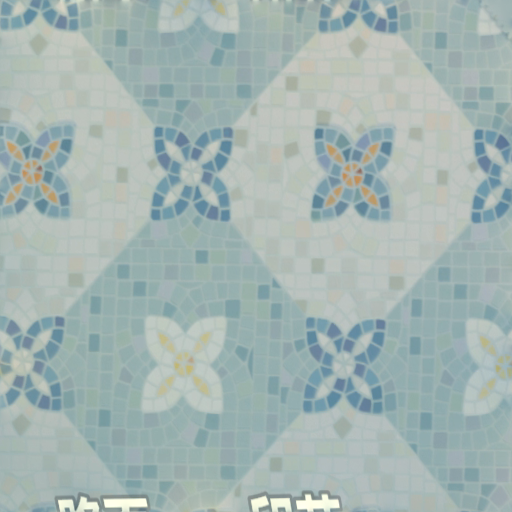
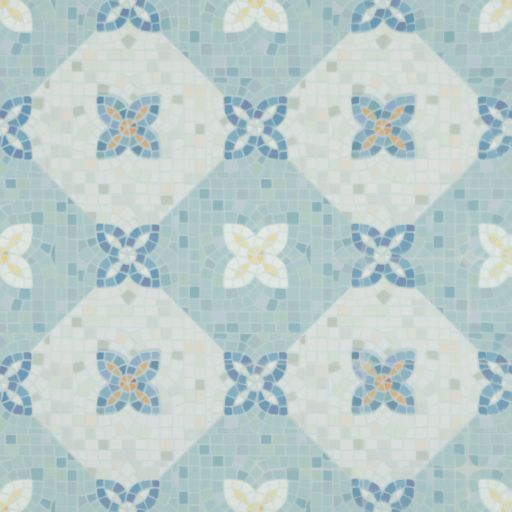
Release v1.6.1789
Build 6158, 5 builds since v1.6.1784.

Published snapshot of the source repository, which holds the development history.
See CONTRIBUTING.md for how changes are proposed.

diff --git a/docs/CHANGELOG.md b/docs/CHANGELOG.md
@@ -4,6 +4,12 @@ All notable changes to PetitMaker are documented here.
 
 The format is based on [Keep a Changelog](https://keepachangelog.com/en/1.1.0/), and this project aims to follow [Semantic Versioning](https://semver.org/spec/v2.0.0.html).
 
+## [1.6.1789] - 2026-10-14
+
+### Fixed
+
+- Fixed the Diamond Mosaic Brick Path surface showing stray text and visible seams where its pattern repeats.
+
 ## [1.6.1784] - 2026-10-13
 
 ### Added

diff --git a/docs/CHANGELOG.zh-CN.md b/docs/CHANGELOG.zh-CN.md
@@ -4,6 +4,12 @@
 
 本文件的格式参考 [Keep a Changelog](https://keepachangelog.com/zh-CN/1.1.0/)，版本号力求遵循[语义化版本](https://semver.org/lang/zh-CN/)。
 
+## [1.6.1789] - 2026-10-14
+
+### 修复
+
+- 修复「菱形拼花砖路」的路面纹样带有多余文字、拼接处接缝明显的问题。
+
 ## [1.6.1784] - 2026-10-13
 
 ### 新增
